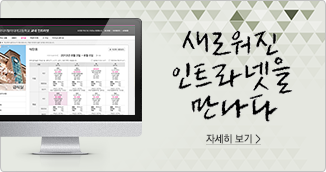
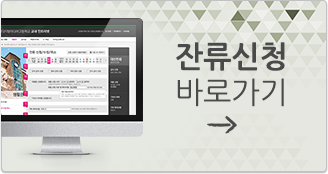
버그수정

diff --git a/modules/index/template/home.html b/modules/index/template/home.html
@@ -107,15 +107,19 @@
 				</span>
 			</div>
 			<ul>
-				{@ foreach($noticeArticles as $key => $article) : }
-				<li class="clearfix">
-					<div class="fl dot">·</div>
-					<div class="fl article">
-						<a href="/school-life/school-notice/{$article->no}">{$article->title}</a>
-					</div>
-					<div class="fr write-time">{$article->uploadTime}</div>
-				</li>
-				{@ endforeach; }
+				<condition do = "count($noticeArticles) > 0">
+					{@ foreach($noticeArticles as $key => $article) : }
+					<li class="clearfix">
+						<div class="fl dot">·</div>
+						<div class="fl article">
+							<a href="/school-life/school-notice/{$article->no}">{$article->title}</a>
+						</div>
+						<div class="fr write-time">{$article->uploadTime}</div>
+					</li>
+					{@ endforeach; }
+				<else>
+					<div class="no-content">내용이 없습니다</div>
+				</condition>
 			</ul>
 		</div>
 
@@ -127,20 +131,24 @@
 				</span>
 			</div>
 			<ul>
-				{@ foreach($dormitoryArticles as $key => $article) : }
-				<li class="clearfix">
-					<div class="fl dot">·</div>
-					<div class="fl article">
-						<a href="/dormitory/dormitory-notice/{$article->no}">{$article->title}</a>
-					</div>
-					<div class="fr write-time">{$article->uploadTime}</div>
-				</li>
-				{@ endforeach; }
+				<condition do = "count($dormitoryArticles) > 0">
+					{@ foreach($dormitoryArticles as $key => $article) : }
+					<li class="clearfix">
+						<div class="fl dot">·</div>
+						<div class="fl article">
+							<a href="/dormitory/dormitory-notice/{$article->no}">{$article->title}</a>
+						</div>
+						<div class="fr write-time">{$article->uploadTime}</div>
+					</li>
+					{@ endforeach; }
+				<else>
+					<div class="no-content">내용이 없습니다</div>
+				</condition>
 			</ul>
 		</div>
 
 		<div id="about-intranet" class="tile second-tile fr">
-			<a href="http://event.dimigo.us" target="_blank">
+			<a href="/dormitory/stay-request">
 				<img src="./img/about.png" width="326" height="172">
 			</a>
 		</div>

diff --git a/layouts/default/layout.html b/layouts/default/layout.html
@@ -128,9 +128,9 @@
 </condition>
 <div id="footer">
 	<div id="footer-left">
-		<a href="/credit" target="_blank">
+		/*<a href="https://www.facebook.com/DimigoSHIFT" target="_blank">*/
 			<img src="./img/footer_copyrights.png" width="380" height="31" alt="한국디지털미디어고등학교 인트라넷은 Dimigo SHIFT팀이 개발하였습니다.">
-		</a>
+		/*</a>*/
 	</div>
 	<div id="footer-right">
 		<div class="footer-right-child">

diff --git a/modules/index/template/stylesheet.css b/modules/index/template/stylesheet.css
@@ -177,3 +177,7 @@
 
 #main .second-tile .board-header h3{ margin: 0; padding: 0 }
 #main .second-tile .board-header a{ color: #999; text-decoration: none }
+
+
+#main #notice-school .no-content,
+#main #notice-dormitory .no-content{ margin: 50px 100px; color: #999; }

diff --git a/lib/others/lib.lunar.php b/lib/others/lib.lunar.php
@@ -5,7 +5,7 @@
 	} 
 
 	//음->양 변환
-	function LunarToSola($yyyymmdd){ 
+	function LunarToSolar($yyyymmdd){ 
 		$getYEAR = substr($yyyymmdd,0,4); 
 		$getMONTH = substr($yyyymmdd,4,2); 
 		$getDAY = substr($yyyymmdd,6,2); 
@@ -163,7 +163,7 @@
 	}
 
 	//양->음 변환
-	function SolaToLunar($yyyymmdd) {
+	function SolarToLunar($yyyymmdd) {
 		$getYEAR = substr($yyyymmdd,0,4); 
 		$getMONTH = substr($yyyymmdd,4,2); 
 		$getDAY = substr($yyyymmdd,6,2); 
@@ -282,8 +282,8 @@
 
 		$gf_sol2lun = 1; 
 
-		if($m2<10) $m2="0".$m2; 
-		if($sday<10) $td="0".$td; 
+		//if($m2<10) $m2="0".$m2; 
+		//if($sday<10) $td="0".$td; 
 
 		$Ary[year]=$ryear;
 		$Ary[month]=$m2;

diff --git a/modules/stay/StayStudentInfoView.class.php b/modules/stay/StayStudentInfoView.class.php
@@ -88,7 +88,7 @@
 			$this->stayInfo = $this->model->getStayInfo($this->selectedDate);
 
 			$this->isStayAble = $this->getStayAble();
-			self::execTemplate('StaystudentsSeatList');
+			self::execTemplate('StayStudentsSeatList');
 		}
 
 		function ajaxStayStudentsSeatList(){

diff --git a/modules/index/IndexView.class.php b/modules/index/IndexView.class.php
@@ -13,7 +13,7 @@
 		public $meals;
 
 		public function dispDefault() {
-			$this->lunarDate = SolaToLunar(date('Ymd'));
+			$this->lunarDate = SolarToLunar(date('Ymd'));
 			
 			$this->morningSong = $this->model->getMorningSongData();
 

diff --git a/modules/dateSelector/DateSelectorView.class.php b/modules/dateSelector/DateSelectorView.class.php
@@ -92,7 +92,7 @@
 
 			$this->leftWidth = -1 * ($this->passWidth-(24*5)-39);
 
-			self::execTemplate('DateSelector');
+			self::execTemplate('dateSelector');
 		}
 
 	}
